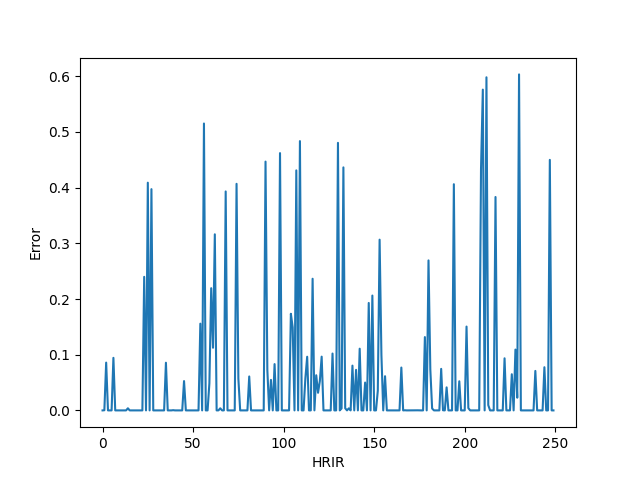
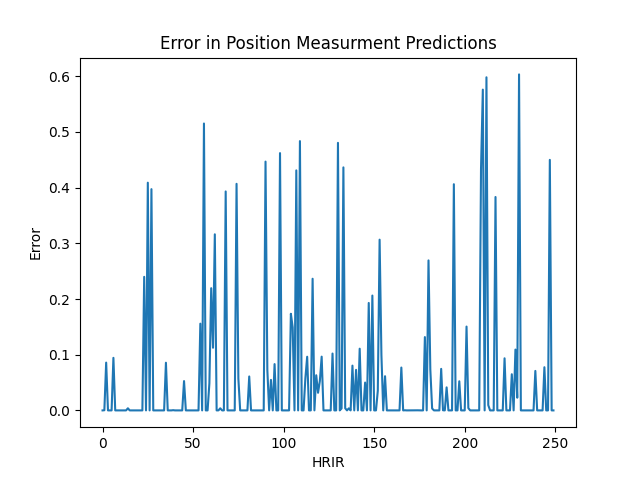
edited styling of graphs

Changed region(s): [[0.25, 0.0625, 0.7812, 0.125]]

diff --git a/src/train.py b/src/train.py
@@ -57,7 +57,6 @@ class ModelTrainer:
             #Keep track of losses
             losses.append(totalLoss.detach().numpy())
 
-            #print every 10 epochs
             if i % 10 == 0:
                 print(f'Epoch: {i} and loss: {totalLoss}')
             
@@ -70,6 +69,8 @@ class ModelTrainer:
         plt.plot(range(epochs), losses)
         plt.ylabel("Loss")
         plt.xlabel("Epoch")
+        plt.title("Training Loss")
+        plt.ylim(-30, 15)
         trainLoss.savefig('../figures/error.png')
 
     
@@ -113,6 +114,7 @@ class ModelTrainer:
             plt.plot(range(len(anthro_ape)), anthro_ape)
             plt.ylabel("Error")
             plt.xlabel("HRIR")
+            plt.title("Error In Anthro Measurement Predictions")
             anthroError.savefig("../figures/anthro_error.png")
 
             #plot the average position error across each hrir
@@ -120,6 +122,7 @@ class ModelTrainer:
             plt.plot(range(len(pos_ape)), pos_ape)
             plt.ylabel("Error")
             plt.xlabel("HRIR")
+            plt.title("Error in Position Measurment Predictions")
             posError.savefig("../figures/pos_error.png")
 
             # average error across all test datasets
